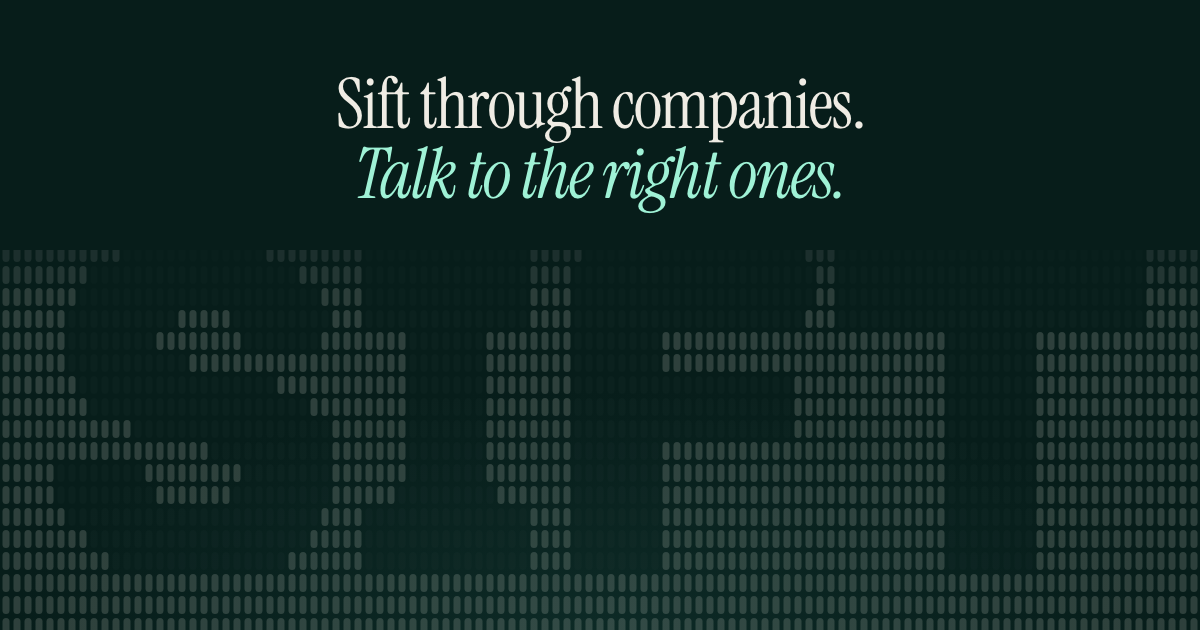
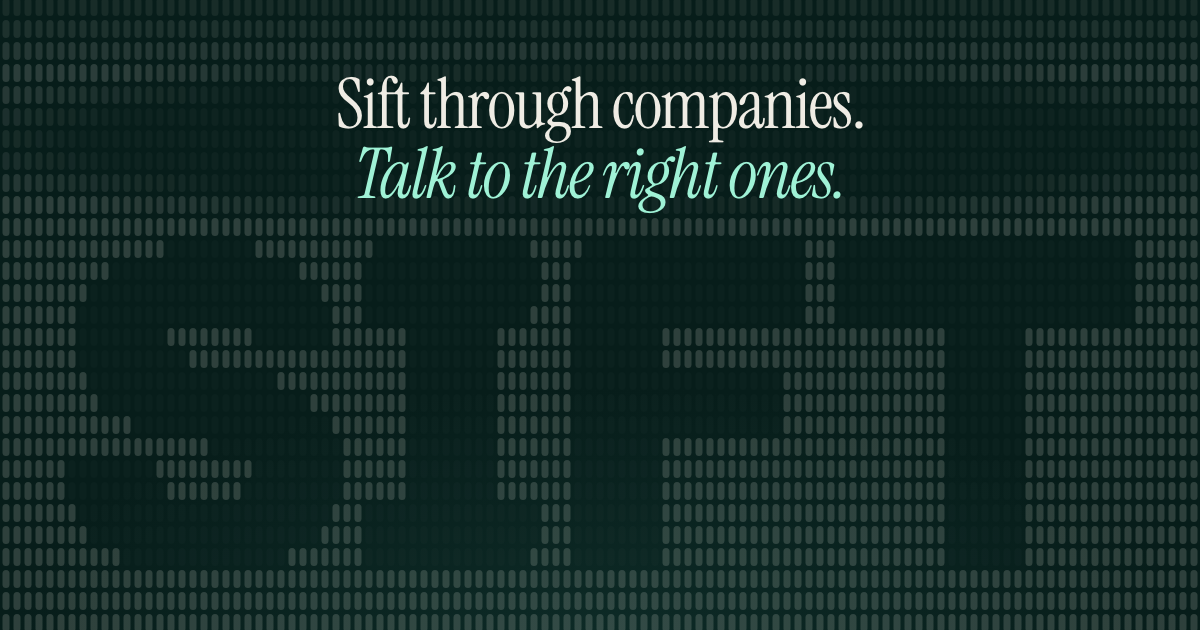
Landing: slat cards across the whole hero, SIFT sized to the space below the copy

Changed region(s): [[0.0, 0.2714, 1.0, 0.9952], [0.0, 0.0603, 1.0, 0.181], [0.6475, 0.4222, 0.6783, 0.4825]]

diff --git a/site/SlatWord.tsx b/site/SlatWord.tsx
@@ -1,17 +1,19 @@
-import { useEffect, useRef } from 'react';
+import { useEffect, useRef, type RefObject } from 'react';
 
 /*
- * A wall of small slat cards across the bottom of the hero. The cards inside the letters of SIFT are
+ * A wall of small slat cards behind the whole hero. The cards inside the letters of SIFT are
  * darkened, so the word reads like holes punched in a sieve; now and then a card flickers, and rarely one
  * flickers mint (a signal). No waves and no cursor: the wall sits still apart from the flicker.
- * Plain 2D canvas, a few thousand rounded rects redrawn about 16 times a second, only while on screen.
+ * The word sits in the lower part of the hero; cards behind the copy (and the nav) are dimmed so the text
+ * stays easy to read. Plain 2D canvas, a few thousand rounded rects redrawn about 16 times a second, only
+ * while on screen.
  */
 
 /** Card size in CSS px; smaller on phones so the letters still have enough rows to read. */
 const sizes = (w: number) => (w < 700 ? { SLAT_W: 4, SLAT_H: 10, GAP: 3 } : { SLAT_W: 7, SLAT_H: 18, GAP: 4 });
 const FONT = '"Schibsted Grotesk Variable", system-ui, sans-serif';
 
-export function SlatWord({ word = 'SIFT' }: { word?: string }) {
+export function SlatWord({ word = 'SIFT', quiet }: { word?: string; quiet?: RefObject<HTMLElement | null> }) {
   const host = useRef<HTMLDivElement>(null);
 
   useEffect(() => {
@@ -30,6 +32,7 @@ export function SlatWord({ word = 'SIFT' }: { word?: string }) {
     let inWord = new Uint8Array(0);
     let flash = new Float32Array(0);
     let mint = new Uint8Array(0);
+    let dim = new Float32Array(0);
 
     const layout = () => {
       const w = el.clientWidth;
@@ -53,20 +56,44 @@ export function SlatWord({ word = 'SIFT' }: { word?: string }) {
       const m = mask.getContext('2d')!;
       m.scale(1 / px, 1 / py);
       m.translate(-ox, -oy);
-      let size = h * 1.28; // cap height is about 0.72 of the font size
+      // The word fills the space between the copy and the bottom edge (at most 380px tall).
+      const narrow = w < 700;
+      const box = quiet?.current?.getBoundingClientRect();
+      const own = el.getBoundingClientRect();
+      const copyBottom = box ? box.bottom - own.top : h * 0.55;
+      const bottom = h - (narrow ? 28 : Math.max(h * 0.05, 30));
+      const band = Math.min(narrow ? 170 : 380, Math.max(narrow ? 120 : 150, bottom - copyBottom - (narrow ? 36 : 44)));
+      let size = band * 1.36; // cap height is about 0.72 of the font size
       m.font = `800 ${size}px ${FONT}`;
       const fit = m.measureText(word).width;
-      if (fit > w * 0.92) size *= (w * 0.92) / fit;
+      if (fit > w * 0.9) size *= (w * 0.9) / fit;
       m.font = `800 ${size}px ${FONT}`;
       m.textAlign = 'center';
       m.textBaseline = 'middle';
       m.fillStyle = '#000';
-      m.fillText(word, w / 2, h / 2 + size * 0.02);
+      m.fillText(word, w / 2, bottom - band / 2 + size * 0.02);
       const data = m.getImageData(0, 0, cols, rows).data;
       inWord = new Uint8Array(cols * rows);
       for (let i = 0; i < cols * rows; i++) inWord[i] = data[i * 4 + 3]! > 110 ? 1 : 0;
       flash = new Float32Array(cols * rows);
       mint = new Uint8Array(cols * rows);
+
+      // Quiet zones: an ellipse around the copy, and the strip under the nav.
+      dim = new Float32Array(cols * rows).fill(1);
+      for (let r = 0; r < rows; r++) {
+        for (let c = 0; c < cols; c++) {
+          const x = ox + c * px + SLAT_W / 2;
+          const y = oy + r * py + SLAT_H / 2;
+          let k = y < 84 ? 0.35 + 0.65 * (y / 84) : 1;
+          if (box) {
+            const dx = (x - (box.left - own.left + box.width / 2)) / (box.width * 0.62);
+            const dy = (y - (box.top - own.top + box.height / 2)) / (box.height * 0.6);
+            const d = Math.sqrt(dx * dx + dy * dy);
+            k = Math.min(k, 0.18 + 0.82 * Math.min(1, Math.max(0, (d - 0.72) / 0.36)));
+          }
+          dim[r * cols + c] = k;
+        }
+      }
       draw();
     };
 
@@ -74,10 +101,9 @@ export function SlatWord({ word = 'SIFT' }: { word?: string }) {
       ctx.setTransform(dpr, 0, 0, dpr, 0, 0);
       ctx.clearRect(0, 0, canvas.width, canvas.height);
       for (let r = 0; r < rows; r++) {
-        // Fade the wall in from the top so it sits under the copy without a hard edge.
-        const fade = Math.min(1, 0.35 + (r + 1) / (rows * 0.3));
         for (let c = 0; c < cols; c++) {
           const i = r * cols + c;
+          const fade = dim[i]!;
           const f = flash[i]!;
           const base = inWord[i] ? 0.015 : 0.17;
           const a = (base + f * (inWord[i] ? 0.12 : 0.45)) * fade;

diff --git a/site/landing.css b/site/landing.css
@@ -118,7 +118,7 @@ main p { line-height: 1.6; }
 .l-btn.cream:hover { background: #fff; }
 
 /* SIFT in slats: the wall runs edge to edge along the bottom of the hero. */
-.l-slatword { position: relative; width: calc(100% + 48px); margin: 56px -24px 0; flex: 1 1 auto; min-height: 220px; max-height: 420px; animation: l-fade 1.4s var(--ease-out) 0.3s both; }
+.l-slatword { position: absolute; inset: 0; z-index: 0; animation: l-fade 1.4s var(--ease-out) 0.3s both; }
 .l-slatword canvas { display: block; }
 
 /* ---------- demo ---------- */
@@ -315,8 +315,7 @@ main p { line-height: 1.6; }
   .l-nav-in { gap: 12px; }
   .l-nav nav { display: none; }
   .l-pill { margin-left: auto; }
-  .l-hero { height: auto; min-height: 0; padding: 112px 16px 0; }
-  .l-slatword { width: calc(100% + 32px); margin: 48px -16px 0; flex: none; min-height: 0; height: 190px; }
+  .l-hero { height: auto; min-height: 0; padding: 112px 16px 250px; }
     .l-maker { grid-template-columns: auto 1fr; }
   .l-maker-links { grid-column: 1 / -1; }
   .l-site { display: none; }

diff --git a/site/Landing.tsx b/site/Landing.tsx
@@ -103,9 +103,11 @@ function Nav() {
 // ---------- hero: the line, one button, and SIFT spelled in slats across the bottom ----------
 
 function Hero() {
+  const copy = useRef<HTMLDivElement>(null);
   return (
     <section className="l-hero">
-      <div className="l-hero-copy">
+      <SlatWord quiet={copy} />
+      <div className="l-hero-copy" ref={copy}>
         <h1>
           Sift through companies.<br /><em>Talk to the right ones.</em>
         </h1>
@@ -118,7 +120,6 @@ function Hero() {
         </div>
         <p className="l-fine">Free and open source</p>
       </div>
-      <SlatWord />
     </section>
   );
 }

diff --git a/log.md b/log.md
@@ -4,6 +4,21 @@ Newest first. Each entry covers what changed, why, and how it was verified. Desi
 
 ---
 
+## 2026-09-30 — Landing: slat cards across the whole hero (branch `site-redesign`)
+
+> "we can have the cards all over actually and size the sift text in the cards a bit up" (their screenshot, on a shorter screen, had SIFT cut off at the bottom)
+
+- **Layout:** the slat wall now fills the entire hero behind the copy. Cards behind the headline, lede and button (an ellipse around the copy) and under the nav are dimmed so the text stays readable.
+- **SIFT sizing:** SIFT now takes the space between the copy and the bottom edge, up to 380 px tall, so it is always fully visible. It is large on tall screens and smaller on short ones instead of being cropped.
+- **Verified:**
+  - screenshots at 1440×900, 1528×750 (close to the user's screen) and 390 px;
+  - no overflow or page errors;
+  - every reveal fires;
+  - `og.png` regenerated;
+  - tests pass.
+
+---
+
 ## 2026-09-30 — Landing v7: SIFT in slats, new headline (branch `site-redesign`)
 
 > "let us remove the sifting part - lets add the large sift text down there - lets change the text to sift through the companies (work on it a bit)" and, with the MicroSlats source pasted: "i want small cards like this but no animation needed we can maybe darken the cards to spell out sift below and they flicker randomly"
